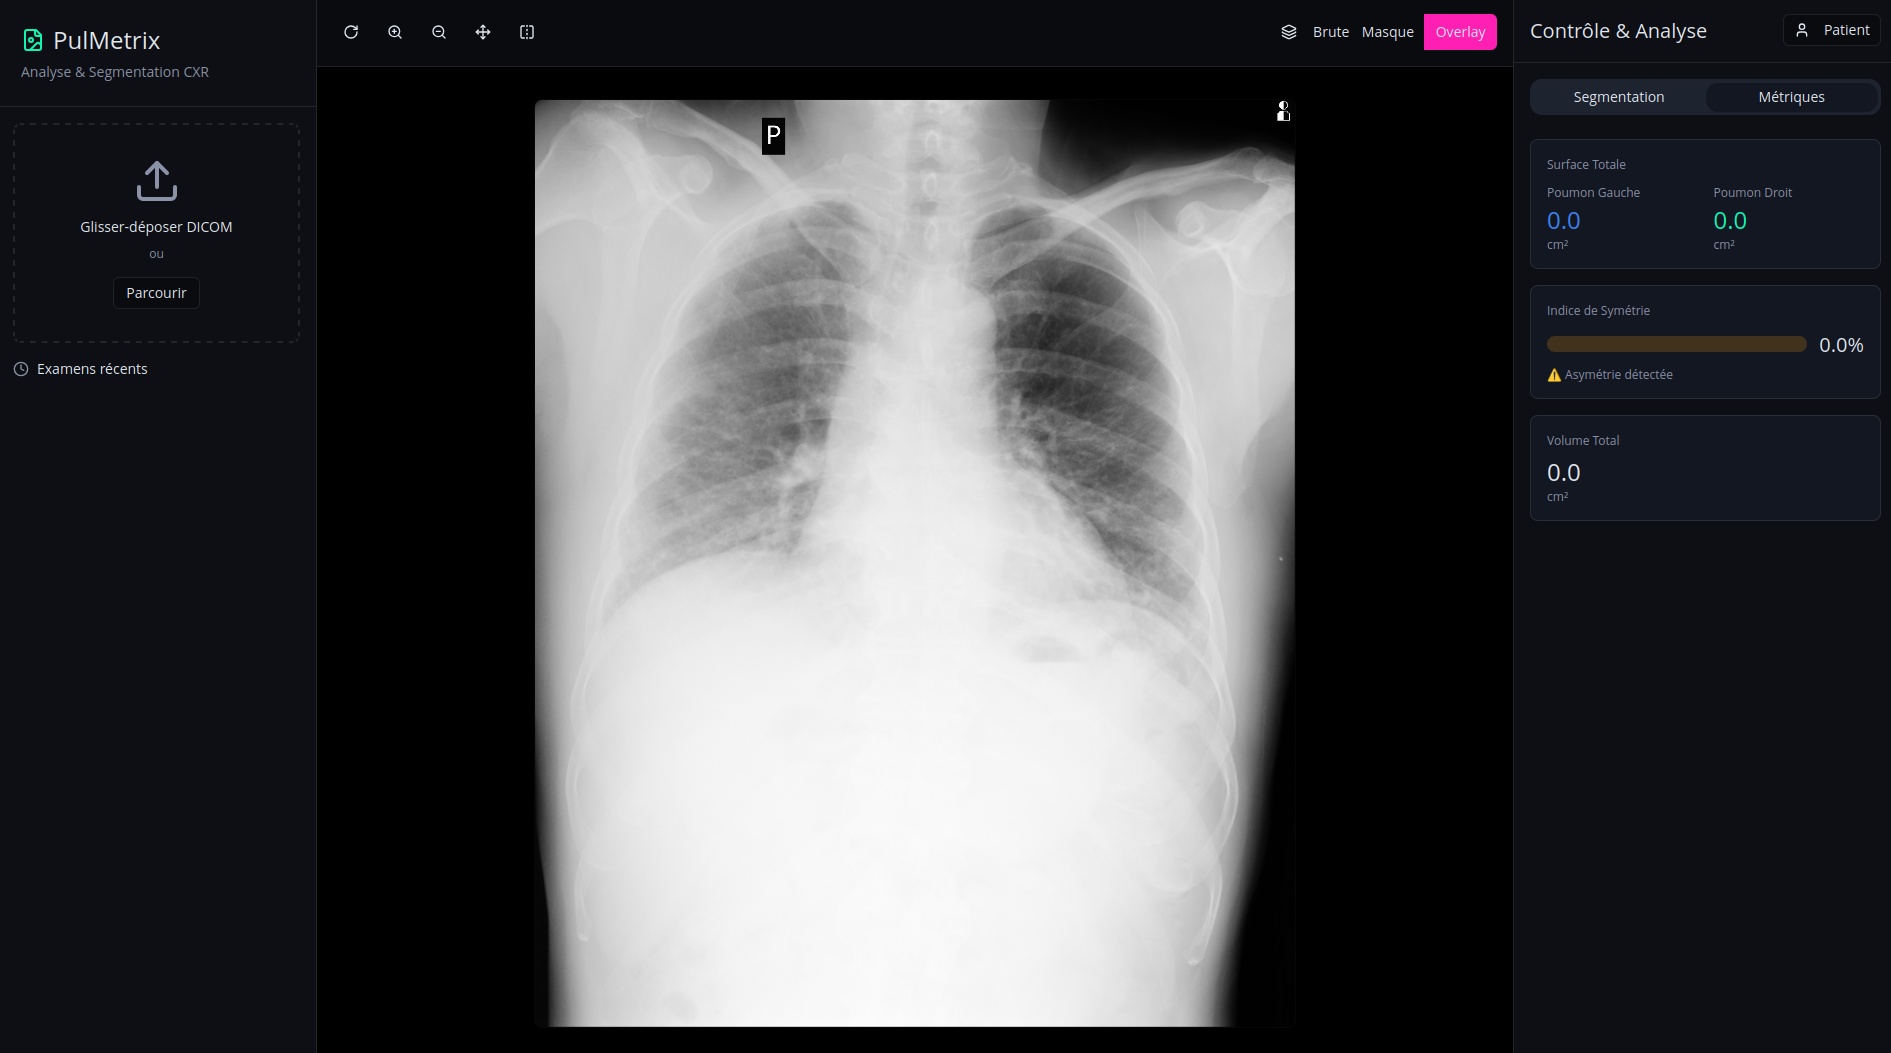
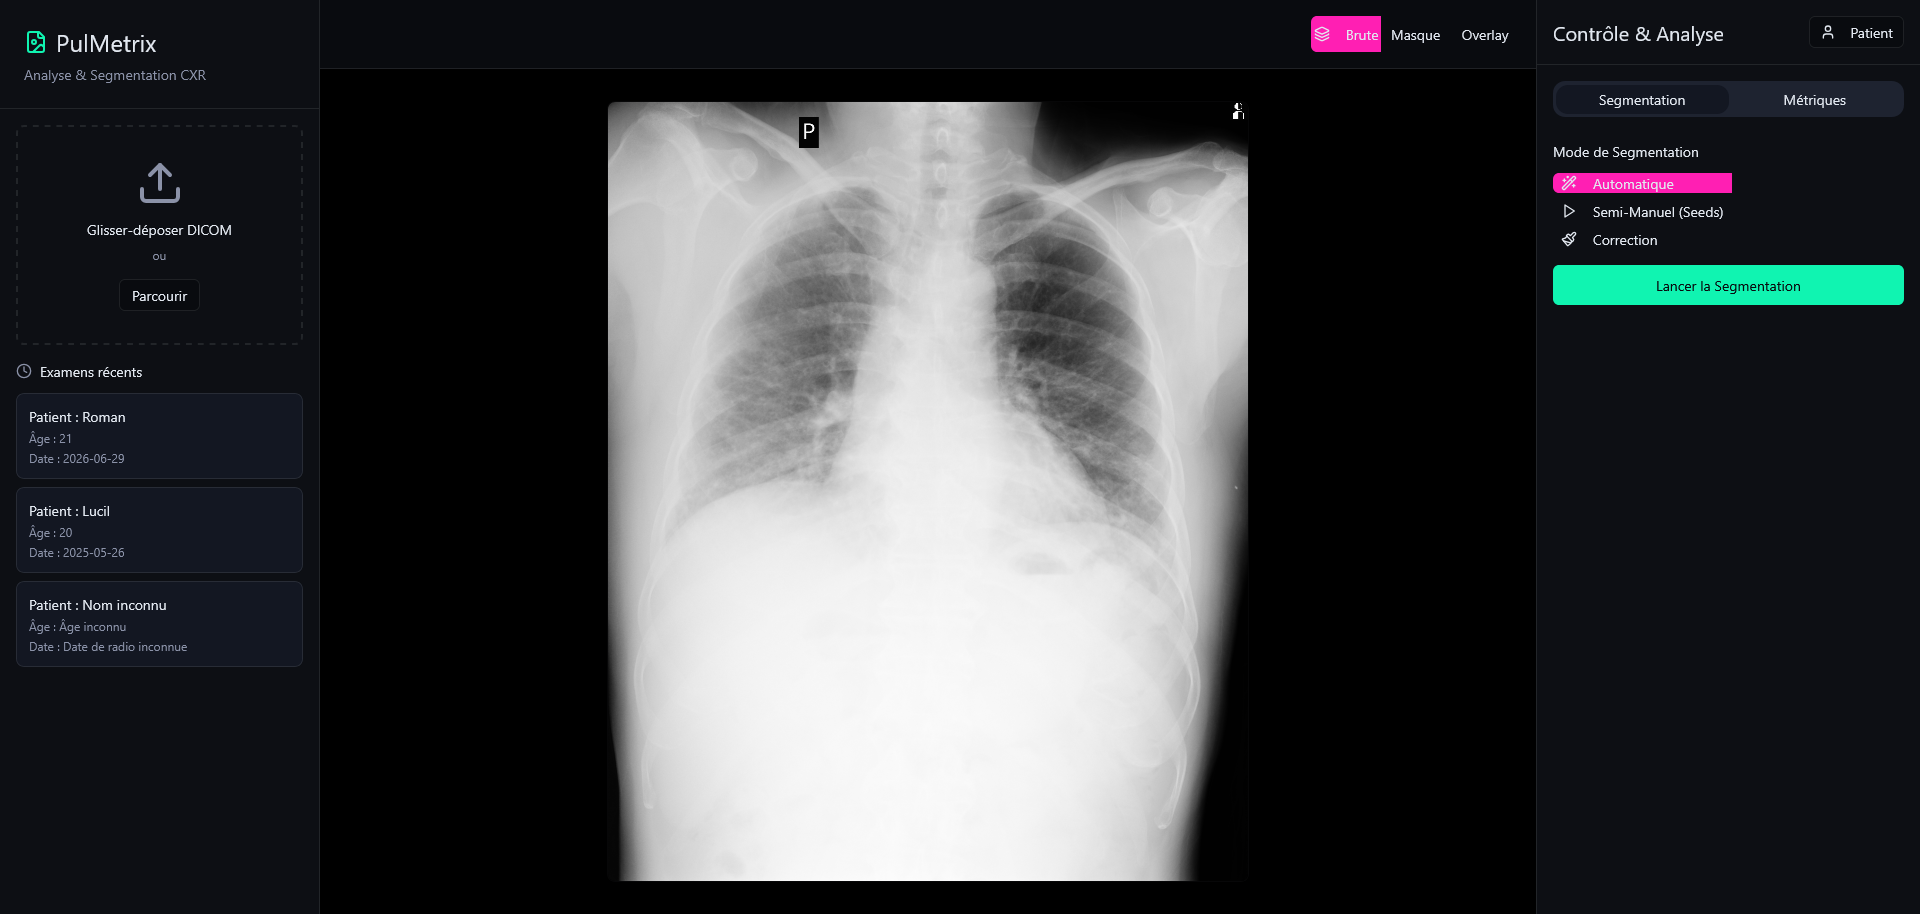
fix(docs): change image and correction text
Squash of the following commits:
* fix(docs): change image and correction text'

diff --git a/backend/docs/user_manual.md b/backend/docs/user_manual.md
@@ -32,7 +32,7 @@ This panel is dedicated to file management. It allows you to import a new DICOM 
 
 ![](img/right_menu_seg.png "Right Menu segmentation")
 
-This menu is used to launch the segmentation process on the selected image. You can choose between automatic mode, semi-manual mode (which requires placing seeds on both lungs), and a correction mode to manually draw or adjust the mask.
+This menu is used to launch the segmentation process on the selected image. You can choose between automatic mode, semi-manual mode (which requires placing seeds on both lungs), and a correction mode to manually draw on the mask.
 
 ### Metrics Menu
 
